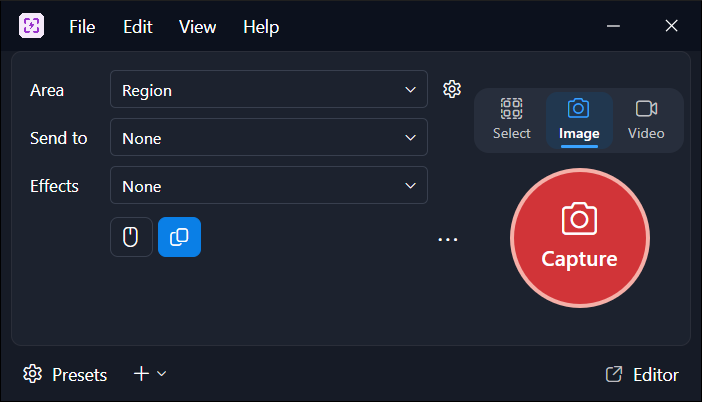
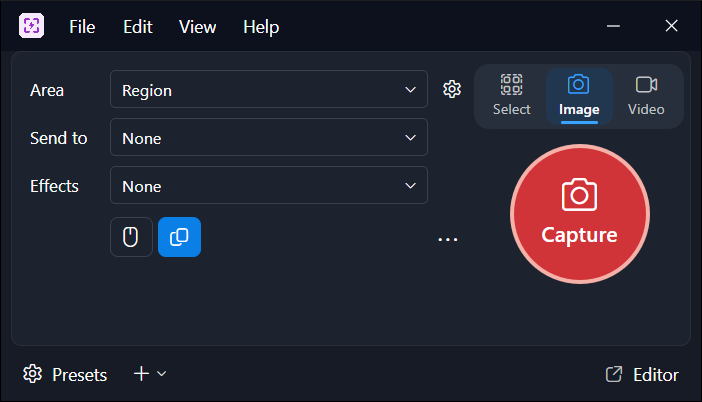
Keep Capture button anchored across modes
Reserve a fixed two-line slot for the action detail so the mode capsule and
button do not shift when switching between Select, Image, and Video.

Changed region(s): [[0.7179, 0.1493, 0.9573, 0.7761], [0.688, 0.1791, 0.7479, 0.2985], [0.688, 0.3284, 0.7479, 0.3582]]

diff --git a/app/src/win/ui/capture_view.rs b/app/src/win/ui/capture_view.rs
@@ -334,10 +334,13 @@ pub fn build(scope: &AppScope, binding: &CaptureBinding) -> Result<Window> {
             .content(content);
         on_click(button, &subs, |_| run("capture".into()))
     };
+    // A fixed two-line slot keeps the capsule and button anchored across modes.
     let detail = TextBlock::el()
-        .visible(move || !action.get().1.is_empty())
         .text(move || action.get().1)
         .width(144.0)
+        .height(32.0)
+        .max_lines(2)
+        .text_trimming("CharacterEllipsis")
         .horizontal_alignment(HorizontalAlignment::Center)
         .text_alignment(TextAlignment::Center)
         .text_wrapping(TextWrapping::Wrap)
